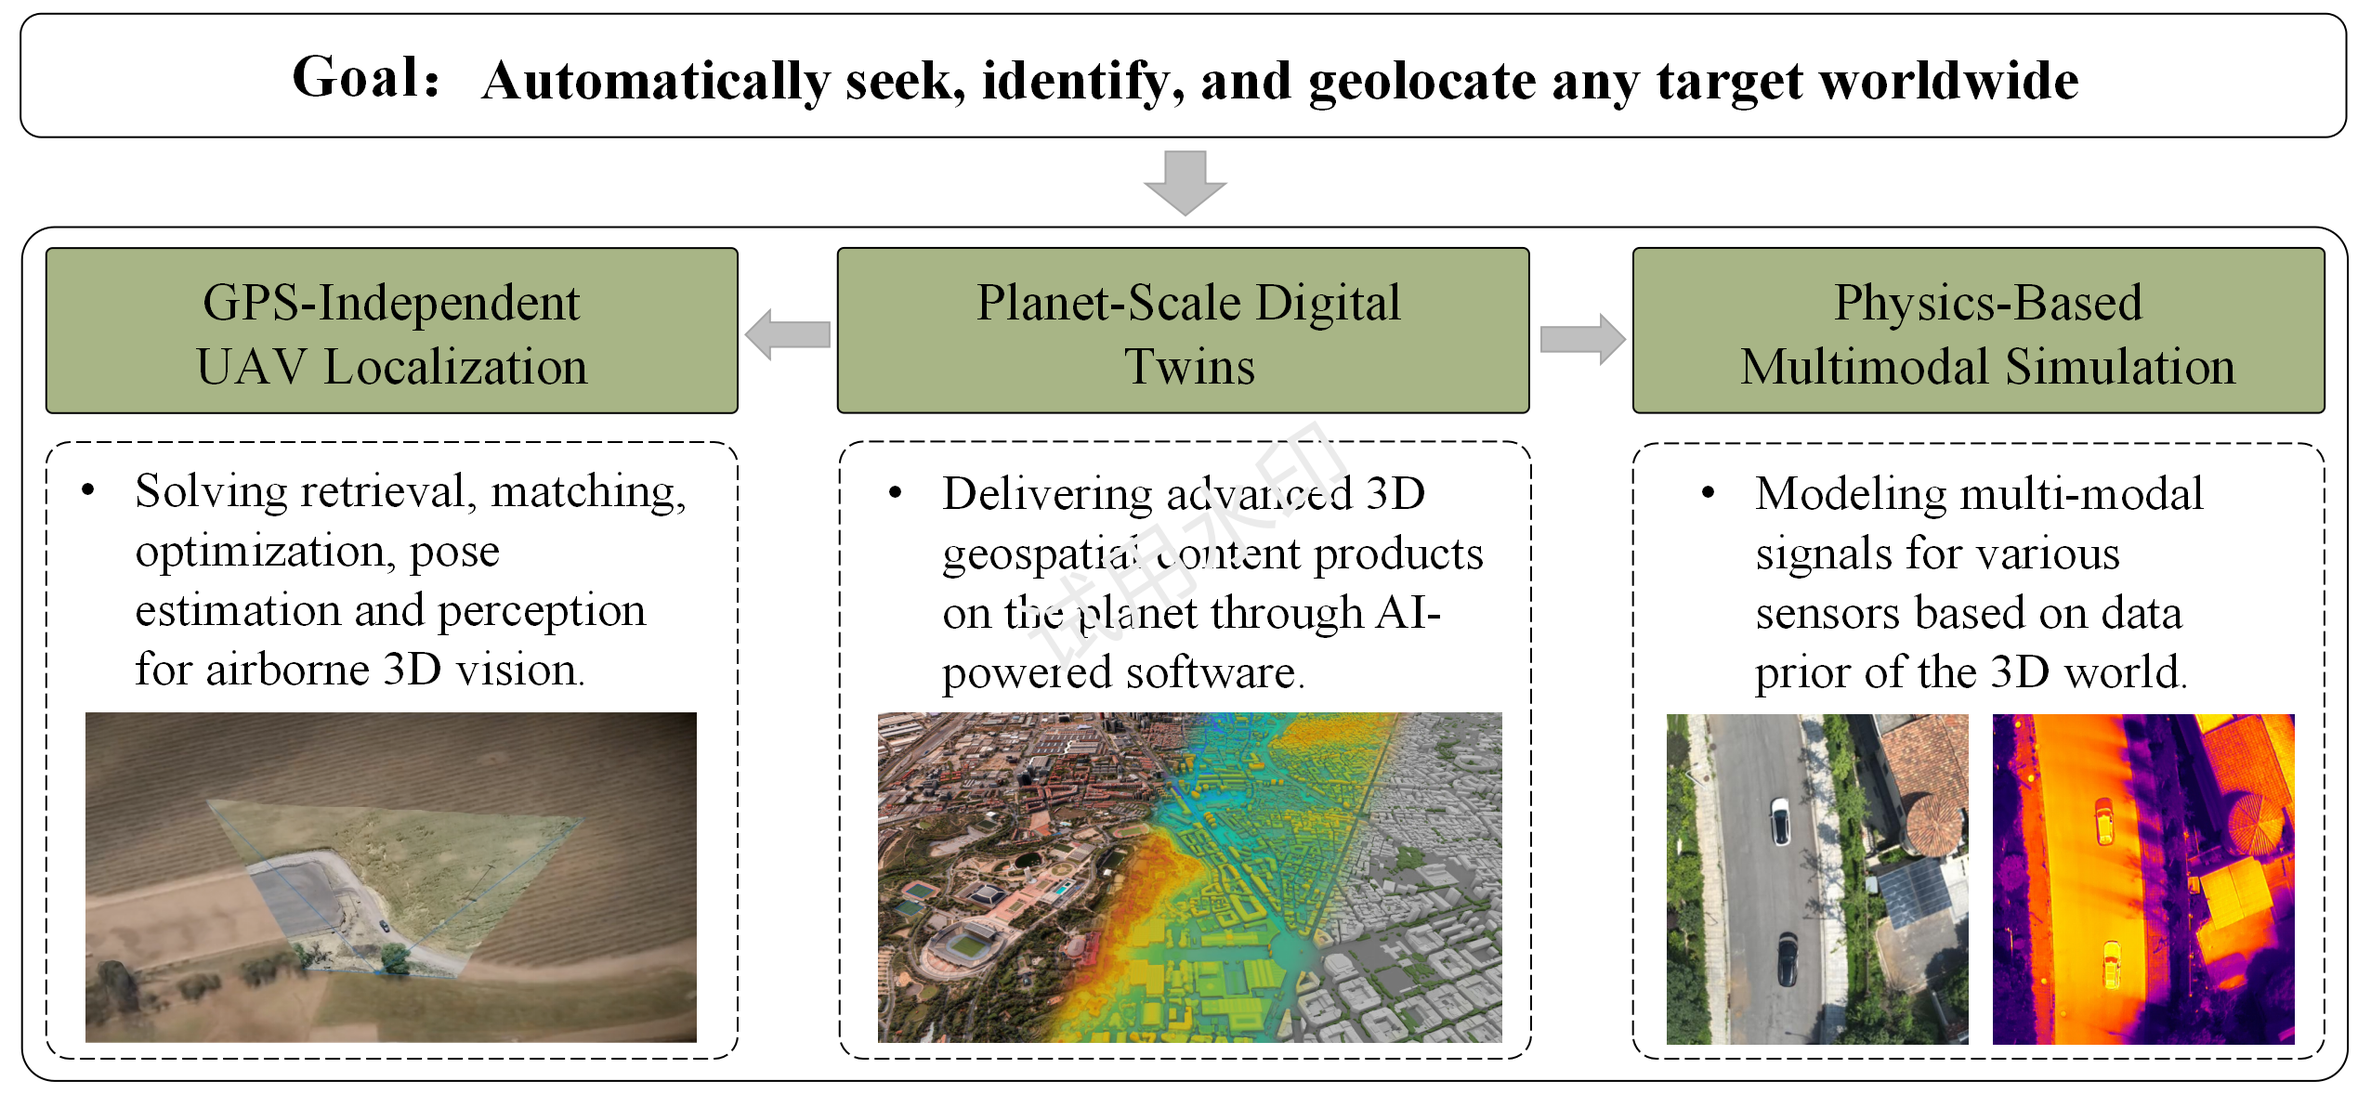
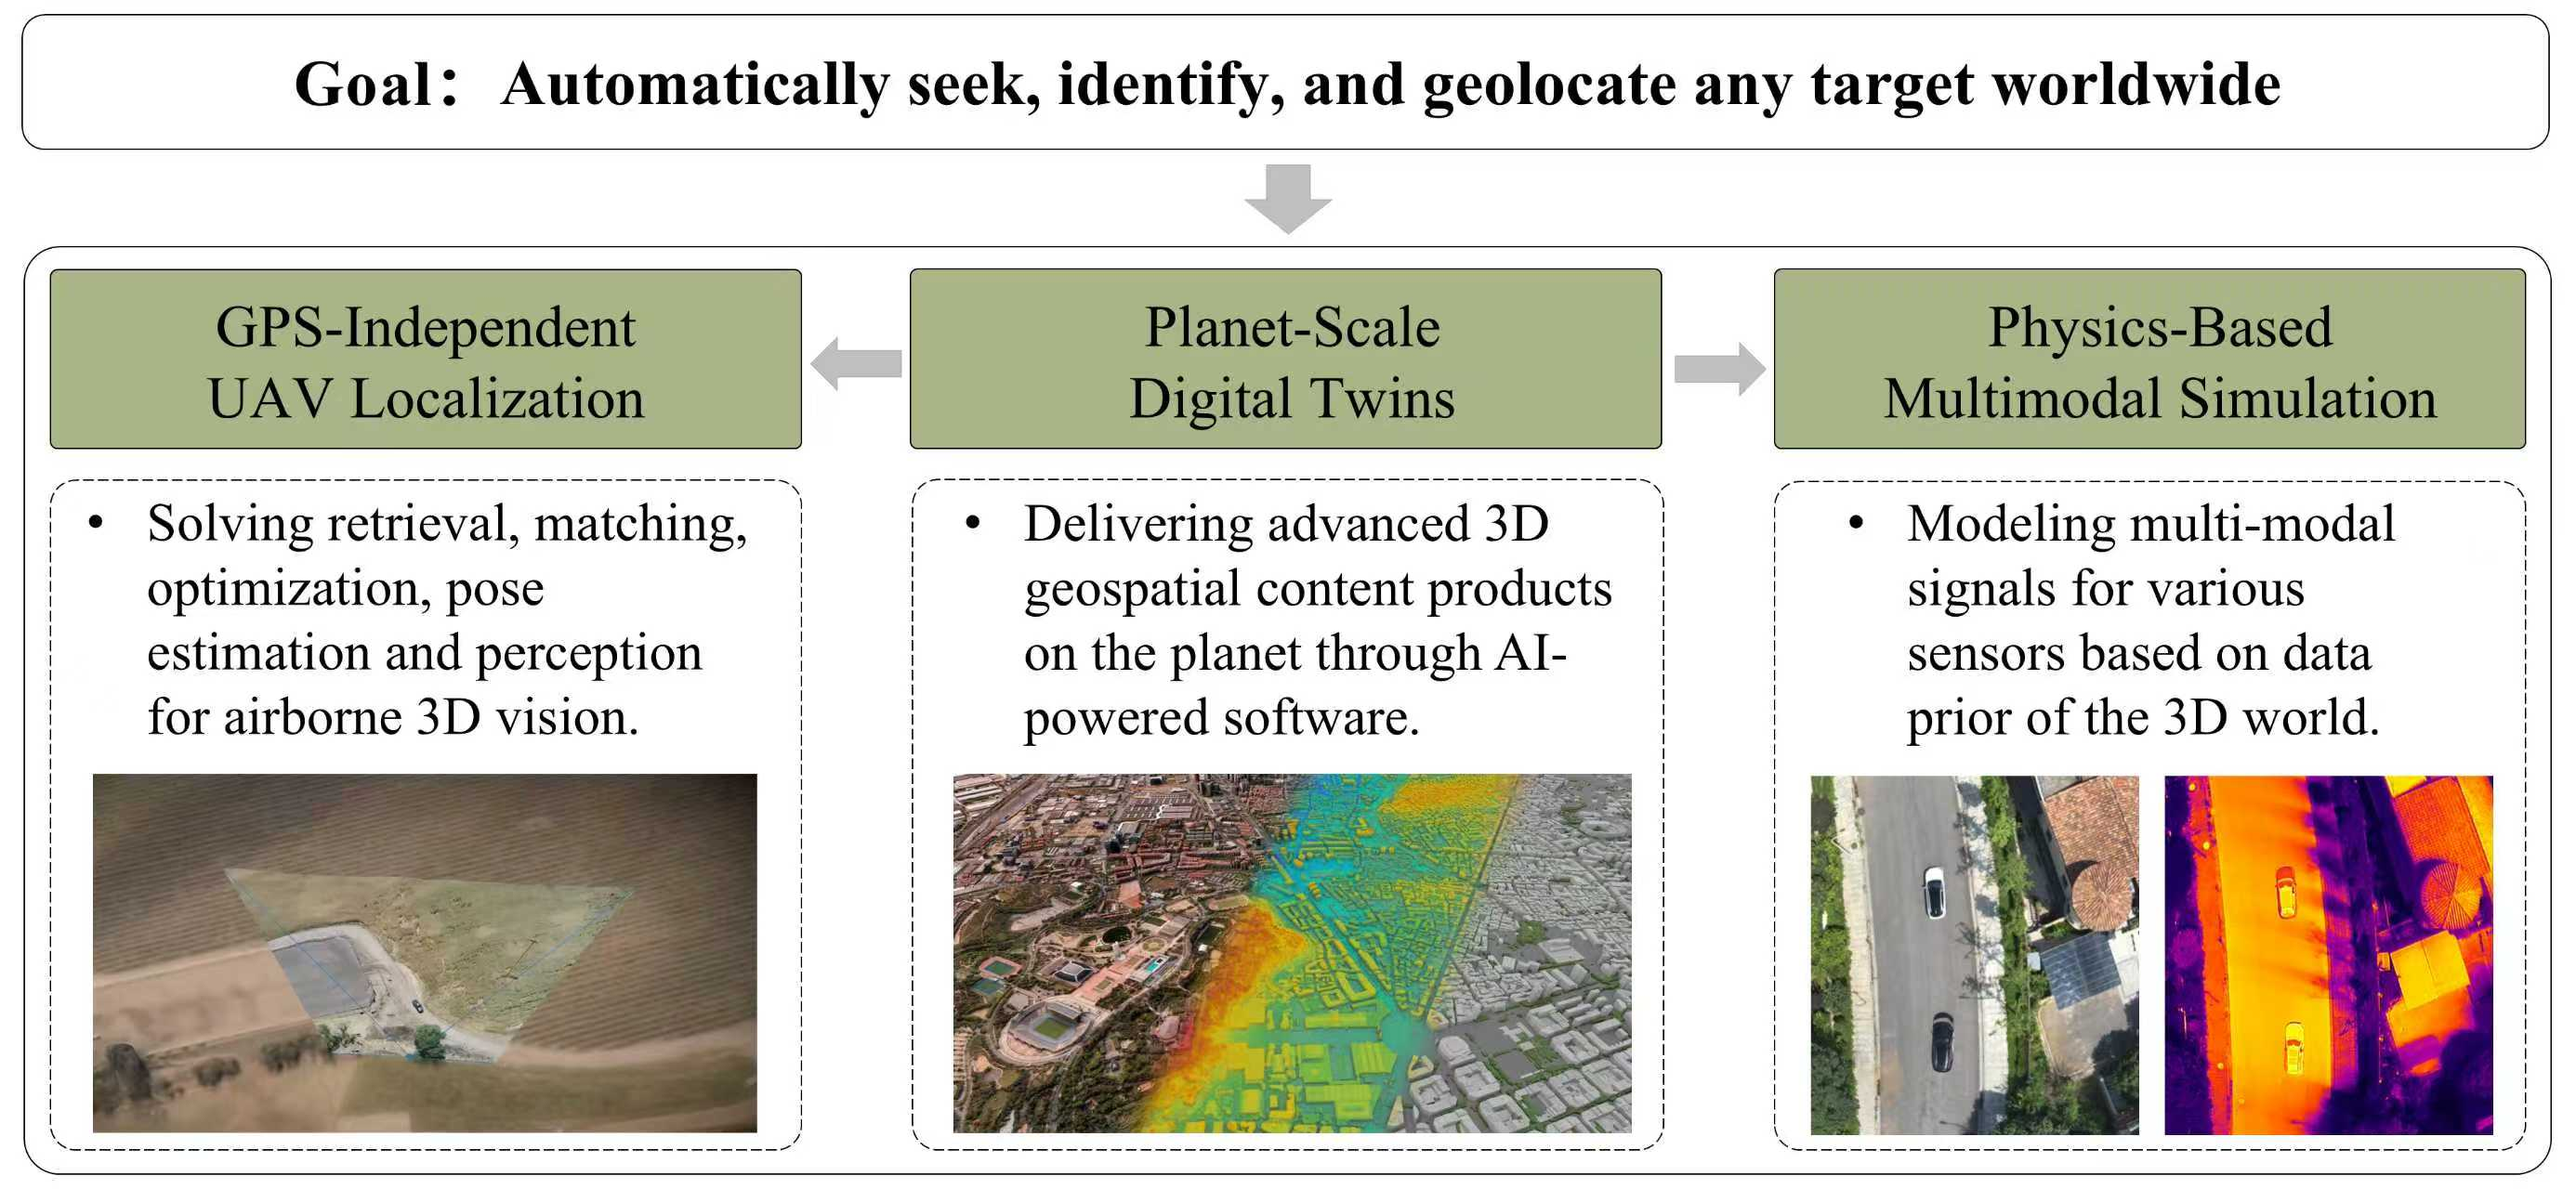
更换图片

diff --git a/content/en/home/research.md b/content/en/home/research.md
@@ -168,4 +168,4 @@ Our lab pioneers **3D geospatial intelligence** with a focus on:
 
 **·  Physics-Based Multimodal Simulation** – Developing immersive virtual environments for UAV perception, path planning, and localization training via sensor simulation (RGB, thermal, LiDAR, et.al).
 
-![](img/research/r4.png)
+![](img/research/r2.png)
